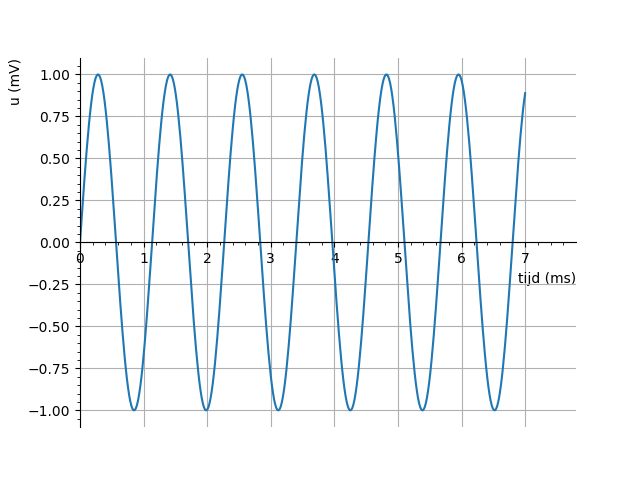
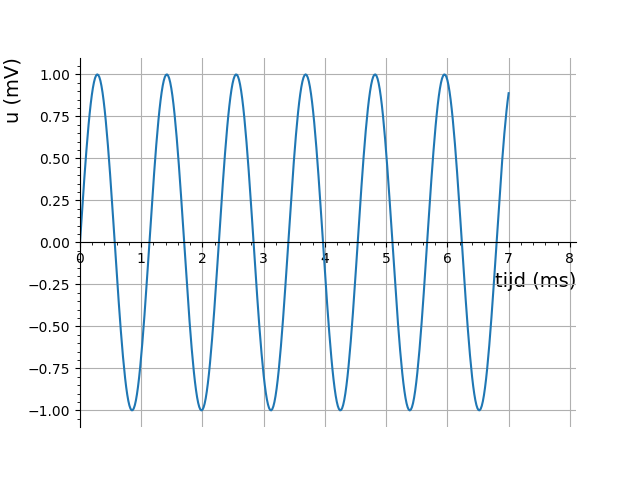
updated oscillogram

Changed region(s): [[0.125, 0.125, 0.9062, 0.875], [0.0, 0.125, 0.0312, 0.25]]

diff --git a/gallery/oscillogram.py b/gallery/oscillogram.py
@@ -1,34 +1,27 @@
 import matplotlib.pyplot as plt
-
 import numpy as np
-from math import *
 
+# Create a numpy array of 400 entries with a sinus
 x = np.linspace(0, 7, 400)
 y = np.sin(2*pi*0.882*x)
 
-fig = plt.figure()
-plt.plot(x, y)
+fig, ax = plt.subplots()
+ax.plot(x, y)
 
-plt.xlabel("tijd (ms)", loc='right')
-plt.ylabel("u (mV)", loc='top')
+# Set the axes
+ax.set_xlim([0, 8.1])
+ax.set_xlabel("tijd (ms)", loc='right', fontsize=14)
+ax.set_ylabel("u (mV)", loc='top', fontsize=14)
 
-plt.minorticks_on()
-plt.grid(which='major')
+# Show the minor ticks and the major grid
+ax.minorticks_on()
+ax.grid(which='major')
 
-ax = fig.add_subplot(1, 1, 1)
-
-# Move left y-axis and bottim x-axis to centre, passing through (0,0)
-#ax.spines['left'].set_position('center')
+# Move bottom x-axis to centre, passing through (0,0)
 ax.spines['bottom'].set_position('center')
 
 # Eliminate upper and right axes
 ax.spines['right'].set_color('none')
 ax.spines['top'].set_color('none')
-
-# Show ticks in the left and lower axes only
-ax.xaxis.set_ticks_position('bottom')
-ax.yaxis.set_ticks_position('left')
-
-ax.set_xlim([0, 7.8])
 
 plt.show()
